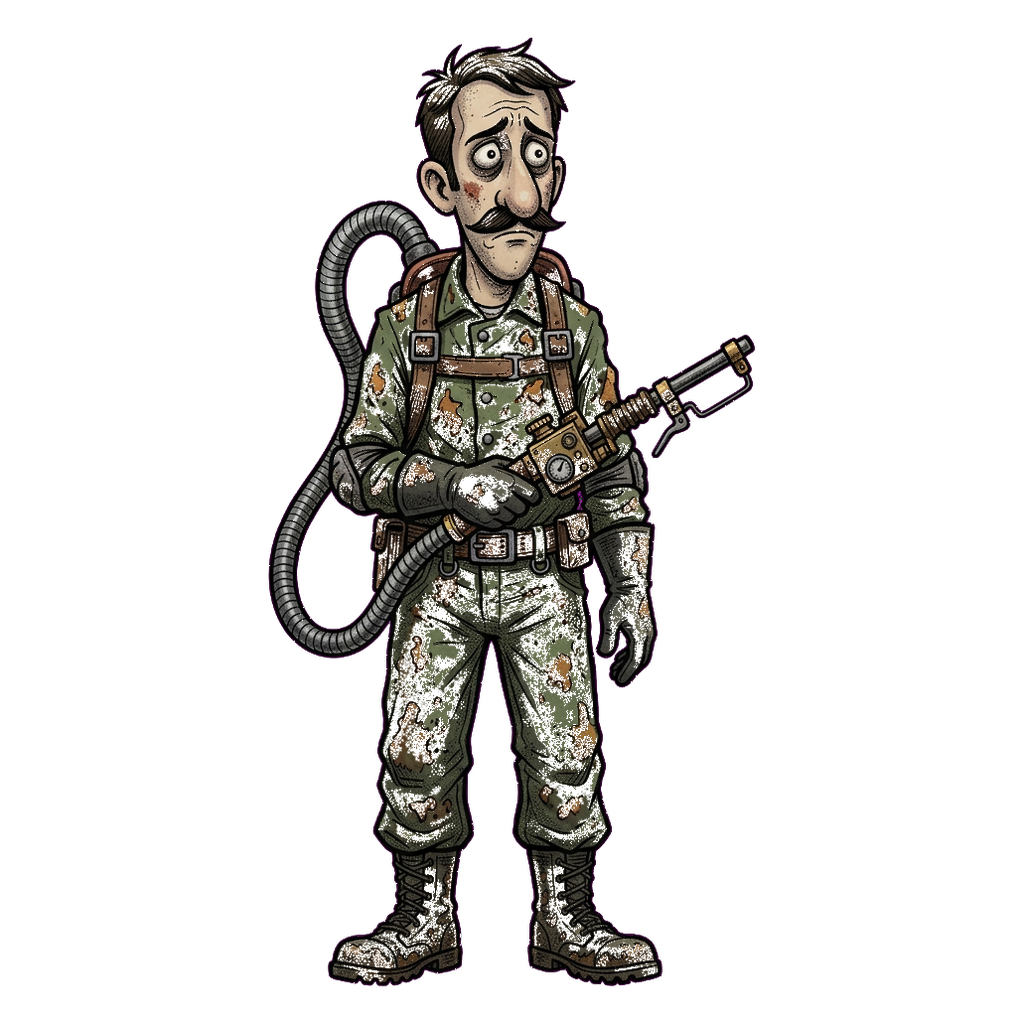
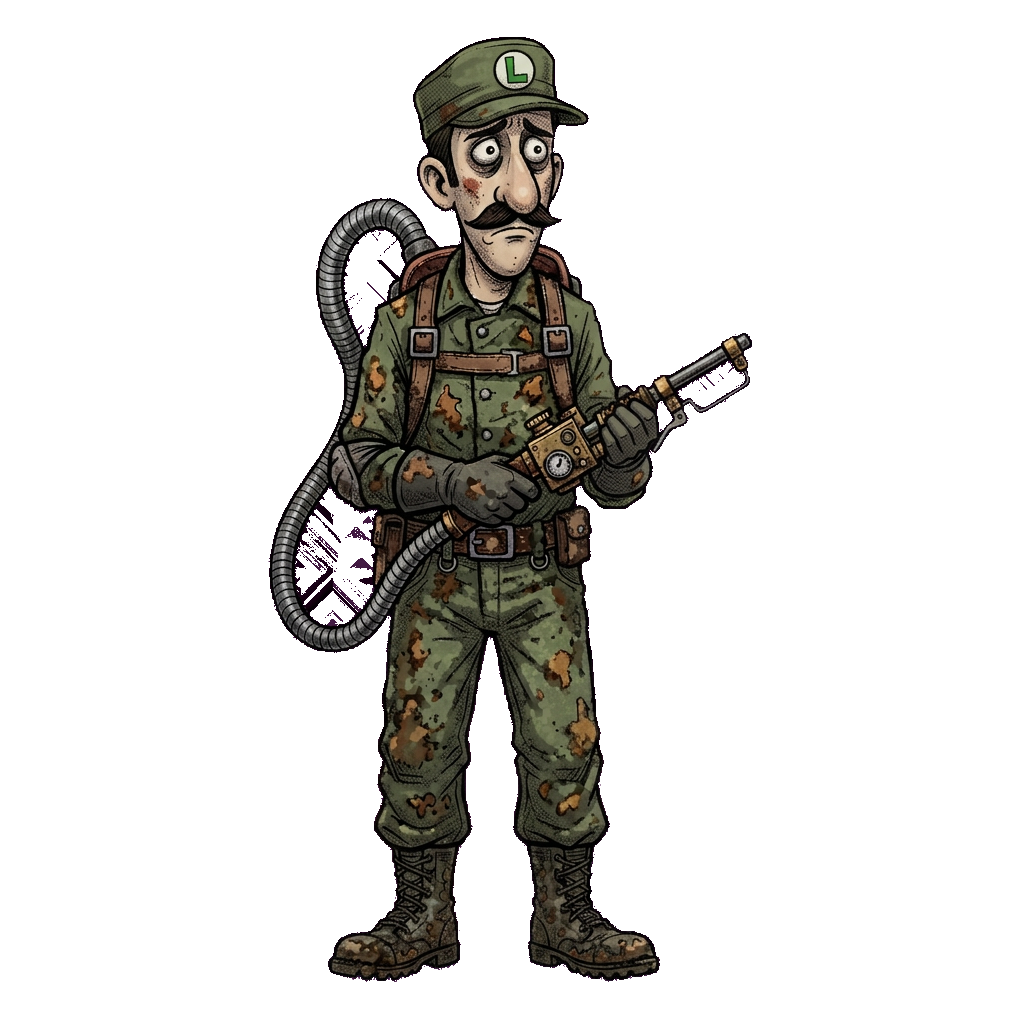
token plates: hue-aware key, no needless resample, wario/salam/luigi/paulo re-rendered
Keyer: the key now also matches its own hue in shadow (dark magenta / dark
green) — generators shade the field next to the figure and that was coming
through as purple blobs in gaps (Luigi's hose loop). A render that already
fits OUT_PX is no longer resampled (the margin gives first), and when one is
downscaled the key colour is written back under the clear pixels so specks
and heal can still tell background from figure.

heal / specks: the despilled band next to real background (or the pad) is
not damage; a tiny gap that really showed the key is a gap. The five plates
that still stored their colour (waluigi, eager, toad_lee, rattles,
john_lee) are re-healed with the band kept soft.

wario, salam, luigi, paulo: the downscale had blackened what was under
their holes, so they are rendered again from the healed plates and cut with
the fixed keyer (wario green key, salam green, luigi and paulo magenta).
check is clean apart from the 36 opaque roster toads.

Changed region(s): [[0.2431, 0.0304, 0.7598, 0.9725]]

diff --git a/tools/make-token-plates.py b/tools/make-token-plates.py
@@ -190,6 +190,43 @@ def _label_from_border(hard):
             reach = grown
 
 
+def square_plate(fig, key_rgb):
+    """Centre a keyed figure on a square transparent canvas with MARGIN around it. A figure that already fits
+    OUT_PX is never resampled (the margin gives first); a bigger one is downscaled, and because resampling
+    premultiplies alpha, the key colour is written back under the clear pixels so later passes (specks, heal)
+    can still tell background from figure."""
+    from PIL import Image
+    np = _np()
+    w, h = fig.size
+    side = int(max(w, h) * (1 + 2 * MARGIN))
+    if side > OUT_PX >= max(w, h):
+        side = OUT_PX
+    canvas = Image.new("RGBA", (side, side), (0, 0, 0, 0))
+    canvas.paste(fig, ((side - w) // 2, (side - h) // 2))
+    if side > OUT_PX:
+        canvas = canvas.resize((OUT_PX, OUT_PX), Image.LANCZOS)
+        arr = np.asarray(canvas).copy()
+        arr[arr[:, :, 3] < 16, :3] = key_rgb
+        canvas = Image.fromarray(arr, "RGBA")
+    return canvas
+
+
+def key_mask(rgb, key, dist, tol):
+    """Pixels that are background for a chroma key: within `tol` of the key colour, or the key's own hue in
+    shadow — generators like to shade the field near the figure to a dark magenta / dark green, and that has
+    to go too. Only chroma keys get the hue rule; a flat field is matched by distance alone."""
+    np = _np()
+    hard = dist <= tol
+    if key in KEYS:
+        r, g, b = rgb[:, :, 0], rgb[:, :, 1], rgb[:, :, 2]
+        top = rgb.max(axis=2)
+        if key == "magenta":
+            hard |= (top >= 30) & (top - g >= 20) & (g <= top * 0.35) & (np.abs(r - b) <= top * 0.3 + 8)
+        else:
+            hard |= (g >= 30) & (g - np.maximum(r, b) >= 20) & (g >= np.maximum(r, b) * 1.8)
+    return hard
+
+
 def cut(src, dst, key="auto", hard_tol=None, soft_tol=None):
     """Key `src` into a trimmed, square, transparent PNG at `dst`. Returns a facts dict."""
     from PIL import Image
@@ -214,7 +251,7 @@ def cut(src, dst, key="auto", hard_tol=None, soft_tol=None):
         hard_tol = hard_tol or 30
         soft_tol = soft_tol or 70
     dist = np.sqrt(((rgb - np.array(kc, dtype=np.int32)) ** 2).sum(axis=2).astype(float))
-    hard = dist <= hard_tol
+    hard = key_mask(rgb, key, dist, hard_tol)
     # a chroma key is background wherever it is (the hole between an arm and a body is not connected to the
     # border); a flat field is keyed only where it touches the border, so a cream cap survives a cream field
     bg = hard if isinstance(key, str) else _label_from_border(hard)
@@ -252,11 +289,7 @@ def cut(src, dst, key="auto", hard_tol=None, soft_tol=None):
         raise SystemExit(f"cut: nothing left after keying {src}")
     res = res.crop(bbox)
     w, h = res.size
-    side = int(max(w, h) * (1 + 2 * MARGIN))
-    canvas = Image.new("RGBA", (side, side), (0, 0, 0, 0))
-    canvas.paste(res, ((side - w) // 2, (side - h) // 2))
-    if side > OUT_PX:
-        canvas = canvas.resize((OUT_PX, OUT_PX), Image.LANCZOS)
+    canvas = square_plate(res, kc)
     os.makedirs(os.path.dirname(dst), exist_ok=True)
     canvas.save(dst, optimize=True)
     fw, fh, clear, _ = plate_facts(dst)
@@ -418,11 +451,7 @@ def cut_grid(sheet_path, rows, cols, ids, key="auto"):
             print(f"  grid: {cid} cell is empty"); continue
         cell = cell.crop(bbox)
         cw, ch = cell.size
-        side = int(max(cw, ch) * (1 + 2 * MARGIN))
-        canvas = Image.new("RGBA", (side, side), (0, 0, 0, 0))
-        canvas.paste(cell, ((side - cw) // 2, (side - ch) // 2))
-        if side > OUT_PX:
-            canvas = canvas.resize((OUT_PX, OUT_PX), Image.LANCZOS)
+        canvas = square_plate(cell, KEYS[facts["key"]] if facts["key"] in KEYS else tuple(int(x) for x in re.findall(r"\d+", facts["key"])))
         dst = os.path.join(RM, PLATES, cid + ".png")
         os.makedirs(os.path.dirname(dst), exist_ok=True)
         canvas.save(dst, optimize=True)
@@ -668,13 +697,16 @@ def specks(path):
     from PIL import Image
     np = _np()
     rgba = np.asarray(Image.open(path).convert("RGBA")).astype(np.int32)
-    n = int(_speck_mask(rgba[:, :, 3]).sum())
+    tiny = _speck_mask(rgba[:, :, 3])
     key = plate_key(rgba)
-    if key:
-        rgb = rgba[:, :, :3]
-        dist = np.sqrt(((rgb - np.array(KEYS[key])) ** 2).sum(axis=2).astype(float))
-        n += int(((rgba[:, :, 3] < 255) & (dist > 150) & (rgb.sum(axis=2) > 0)).sum())
-    return n
+    if not key:
+        return int(tiny.sum())
+    rgb, alpha = rgba[:, :, :3], rgba[:, :, 3]
+    dist = np.sqrt(((rgb - np.array(KEYS[key])) ** 2).sum(axis=2).astype(float))
+    bg = (alpha < 16) & (key_mask(rgb, key, dist, 95) | (rgb.sum(axis=2) == 0))  # keyed, or the transparent pad
+    edge = _dilate(bg, 1)                                   # the band next to real background is despilled, not damage
+    tiny &= ~bg & ~edge                                     # a tiny gap that really showed the key is a gap
+    return int(tiny.sum() + ((alpha < 255) & (dist > 150) & (rgb.sum(axis=2) > 0) & ~edge).sum())
 
 
 def heal(path, key=None, hard_tol=95, soft_tol=150):
@@ -696,9 +728,10 @@ def heal(path, key=None, hard_tol=95, soft_tol=150):
     if key and plate_key(rgba):                                                   # pass 1: exact, colour still there
         kc = np.array(KEYS[key], dtype=np.int32)
         dist = np.sqrt(((rgb - kc) ** 2).sum(axis=2).astype(float))
-        bg = (dist <= hard_tol) & ~pad
-        band = ~bg & ~pad & _dilate(bg) & (dist <= soft_tol)
-        wrong = ~pad & ~bg & ~band & (alpha < 255)
+        bg = key_mask(rgb, key, dist, hard_tol) & ~pad
+        near = _dilate(bg | pad)
+        band = ~bg & ~pad & near & (dist <= soft_tol)
+        wrong = ~pad & ~bg & ~near & (alpha < 255)                               # next to real background it is the (despilled) band
         ramp = np.clip((dist - hard_tol) / max(1.0, soft_tol - hard_tol), 0.0, 1.0)
         band_alpha = 255.0 * (0.25 + 0.75 * ramp)
         low_band = band & (alpha < band_alpha - 1)
@@ -711,6 +744,8 @@ def heal(path, key=None, hard_tol=95, soft_tol=150):
     else:
         fill = np.zeros_like(changed)
     speck = _speck_mask(out[:, :, 3])                                              # pass 2: tiny holes, any plate
+    if key and plate_key(rgba):
+        speck &= ~((alpha < 16) & key_mask(rgb, key, np.sqrt(((rgb - np.array(KEYS[key])) ** 2).sum(axis=2).astype(float)), hard_tol))   # real gaps stay
     if speck.any():
         out[:, :, 3][speck] = 255
         fill |= speck & ((alpha < 16) | (rgb.sum(axis=2) == 0))                    # nothing usable stored there
